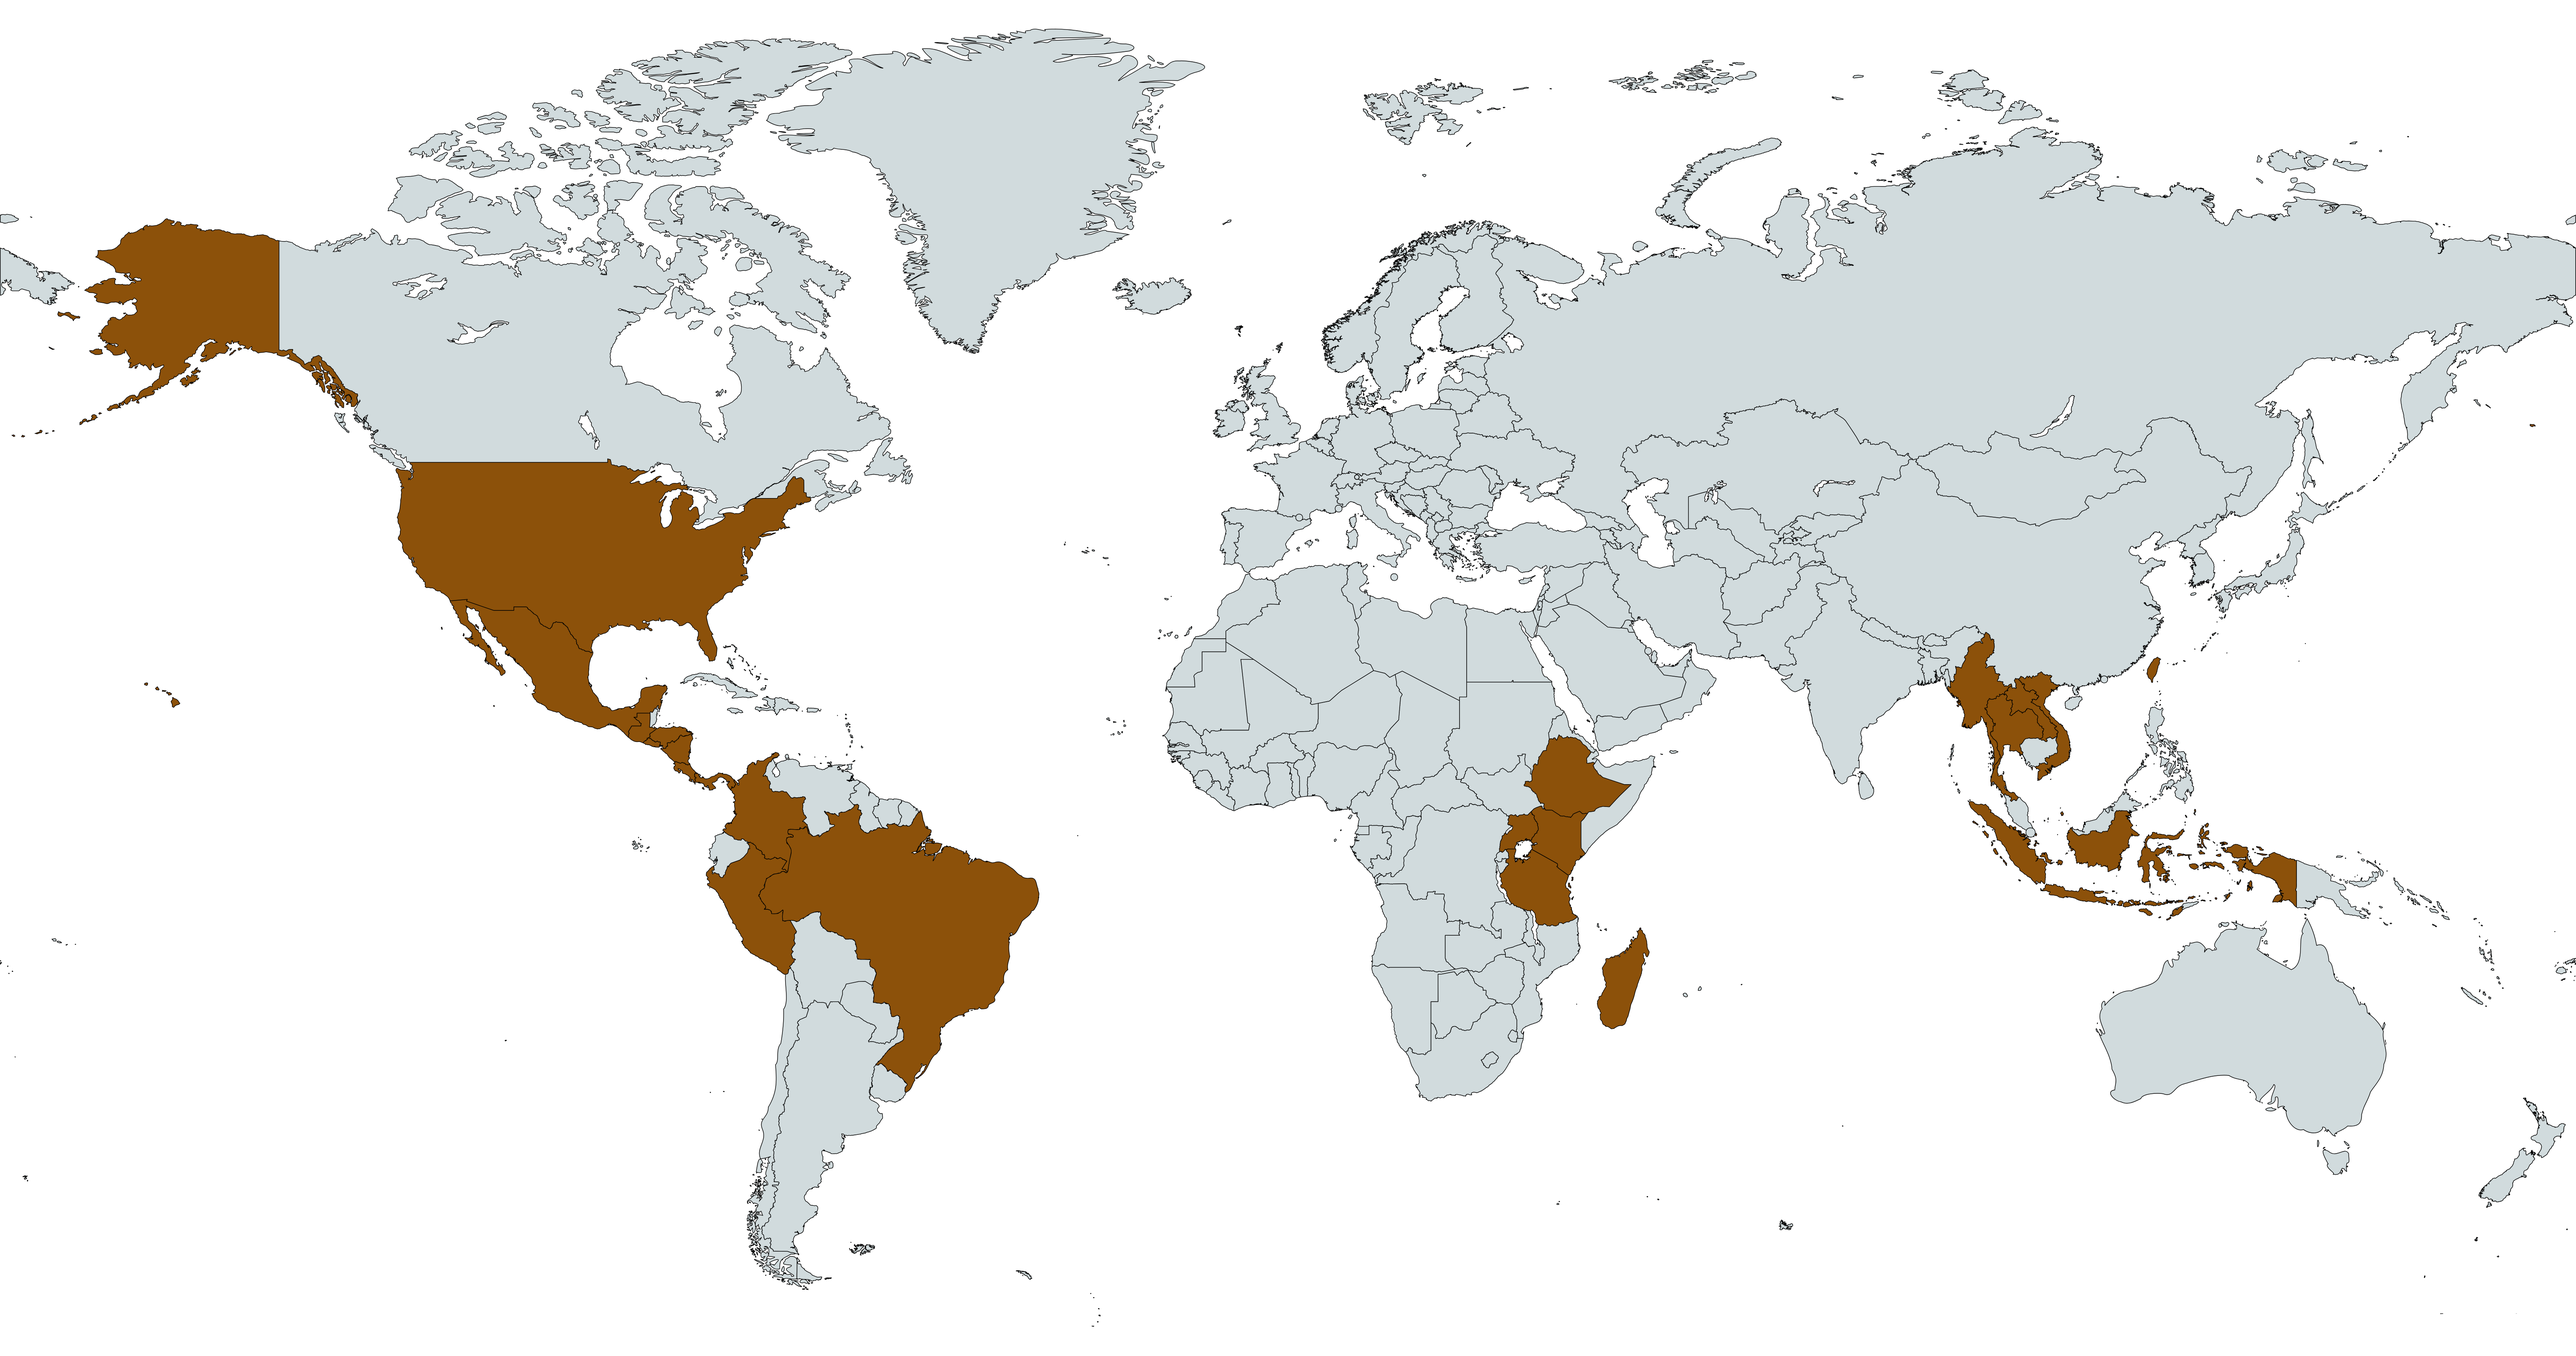
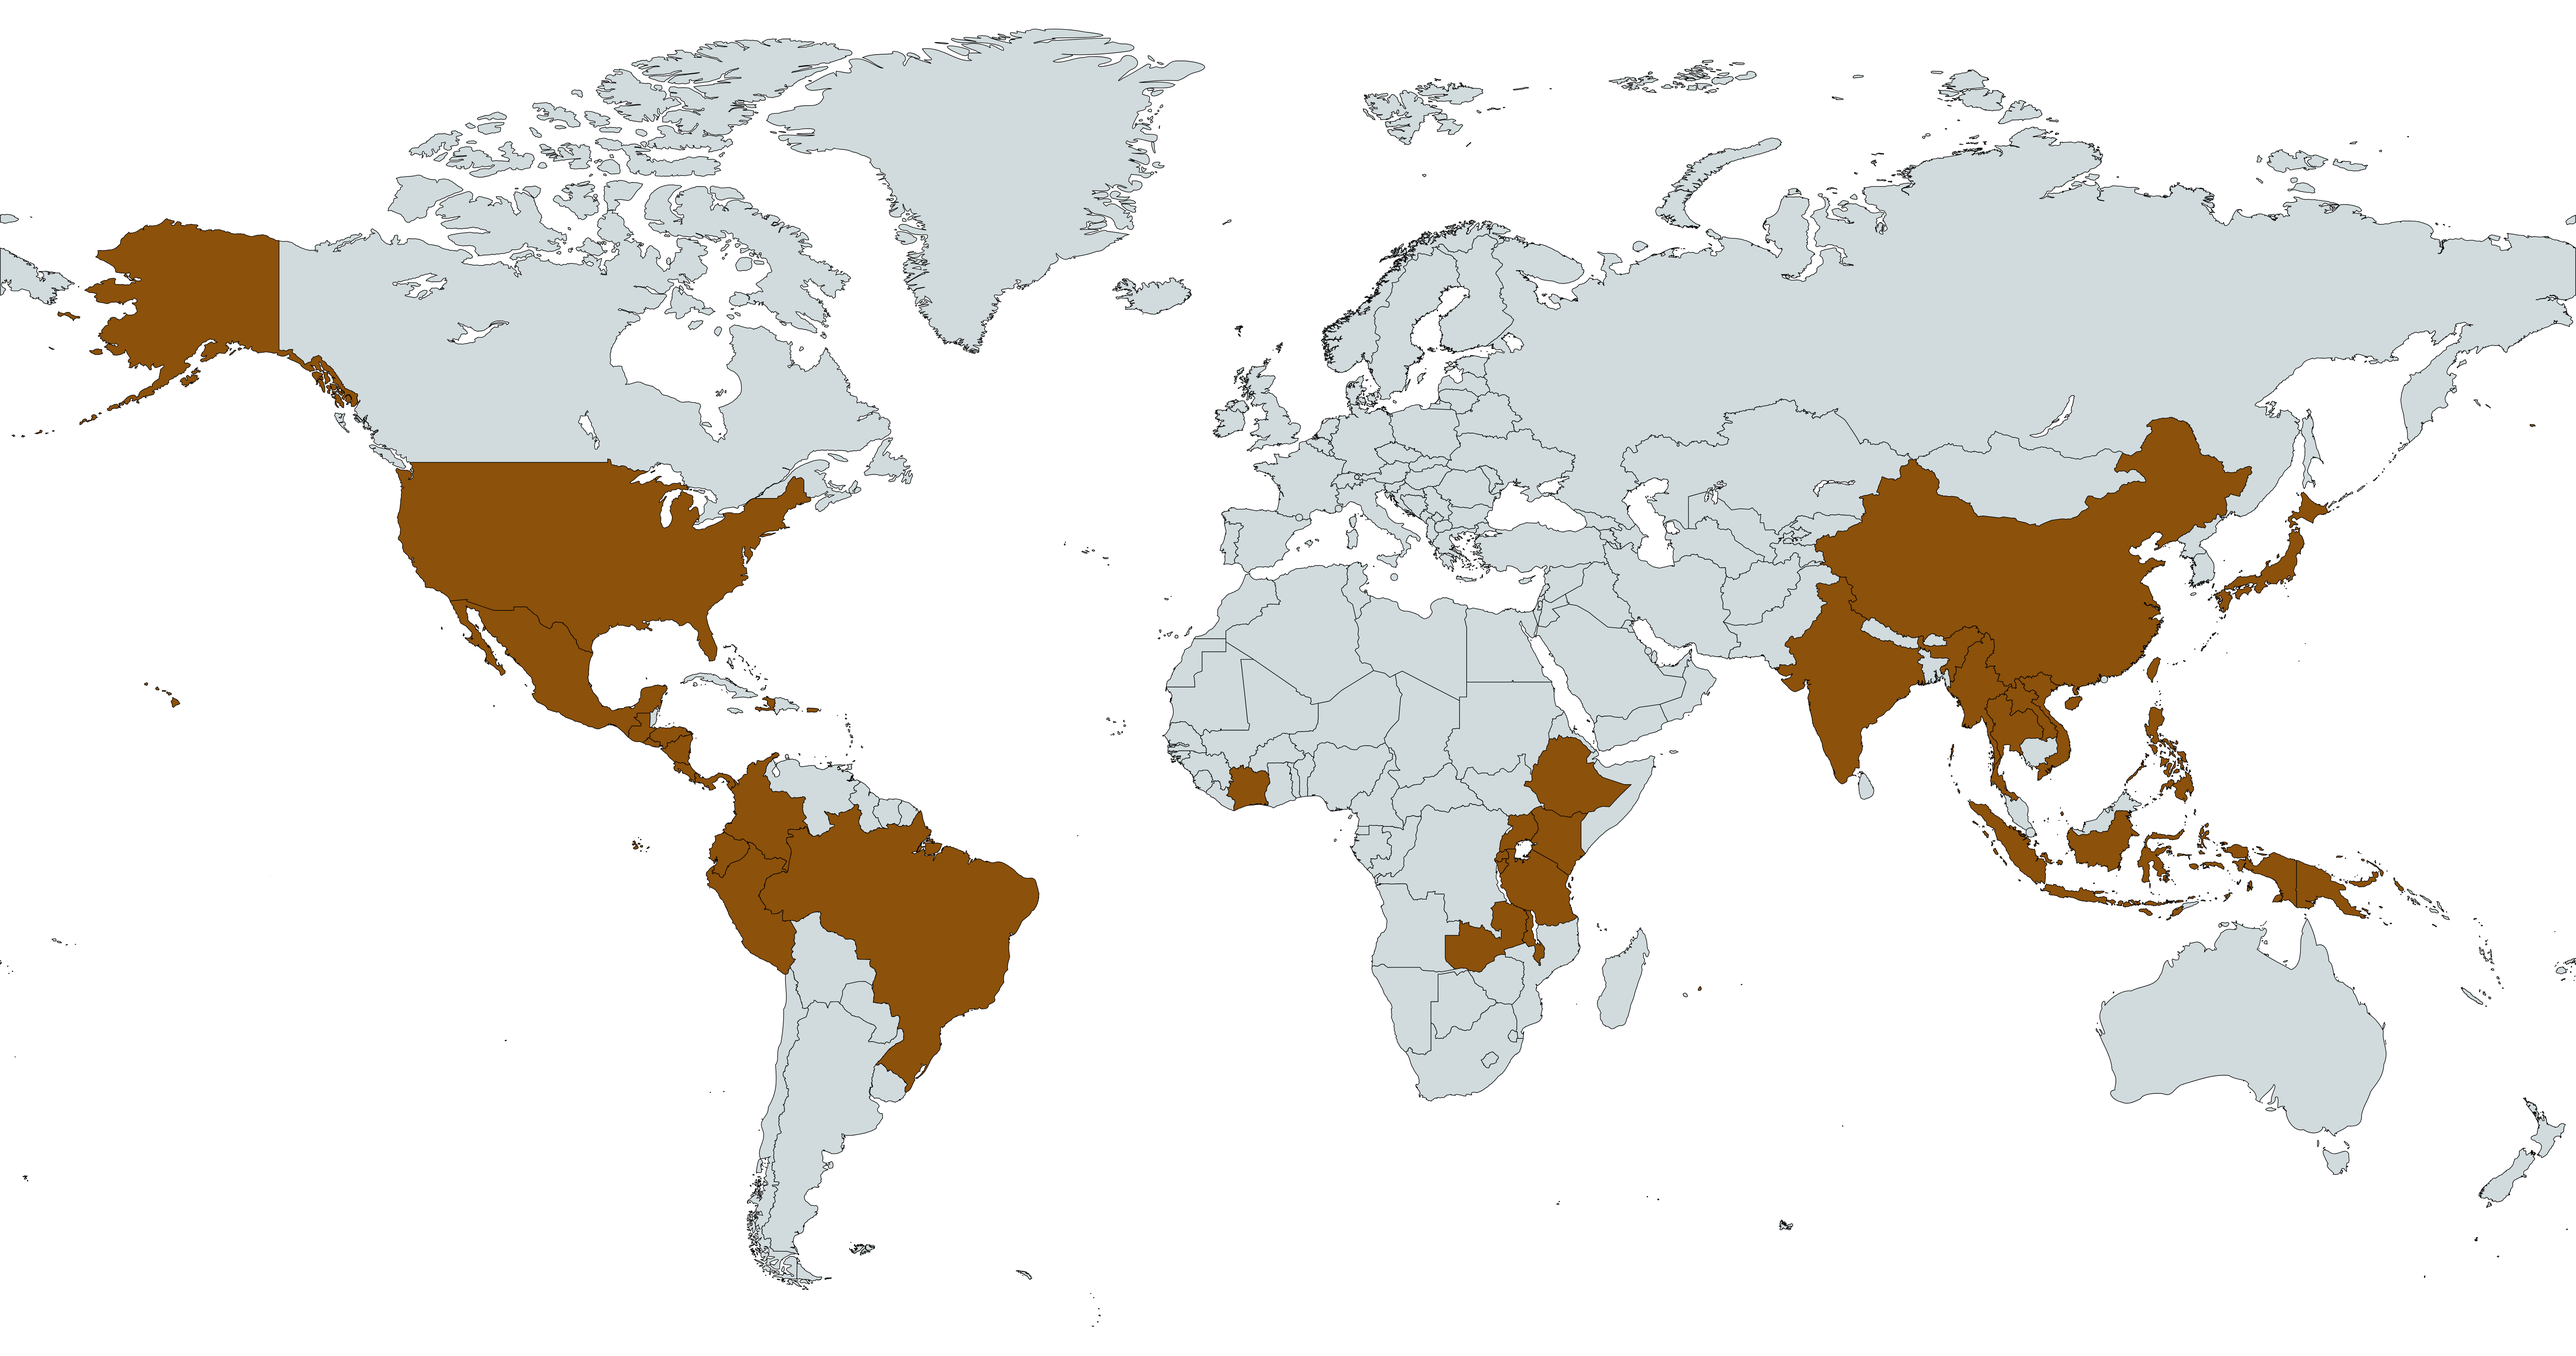
fixed data

diff --git a/src/components/CountriesComponent.jsx b/src/components/CountriesComponent.jsx
@@ -10,74 +10,40 @@ function CountriesComponent() {
       <div id="countriesRepresentedContainer">
         <h2>Countries Represented</h2>
         <ul>
-          <li>
-            <a href="https://en.wikipedia.org/wiki/Colombia">Colombia</a>
-          </li>
-          <li>
-            <a href="https://en.wikipedia.org/wiki/Taiwan">Taiwan</a>
-          </li>
-          <li>
-            <a href="https://en.wikipedia.org/wiki/Laos">Laos</a>
-          </li>
-          <li>
-            <a href="https://en.wikipedia.org/wiki/Costa_Rica">Costa Rica</a>
-          </li>
-          <li>
-            <a href="https://en.wikipedia.org/wiki/Guatemala">Guatemala</a>
-          </li>
-          <li>
-            <a href="https://en.wikipedia.org/wiki/Tanzania">Tanzania</a>
-          </li>
-          <li>
-            <a href="https://en.wikipedia.org/wiki/Ethiopia">Ethiopia</a>
-          </li>
-          <li>
-            <a href="https://en.wikipedia.org/wiki/Thailand">Thailand</a>
-          </li>
-          <li>
-            <a href="https://en.wikipedia.org/wiki/Brazil">Brazil</a>
-          </li>
-          <li>
-            <a href="https://en.wikipedia.org/wiki/United_States">
-              United States
-            </a>
-          </li>
-          <li>
-            <a href="https://en.wikipedia.org/wiki/Kenya">Kenya</a>
-          </li>
-          <li>
-            <a href="https://en.wikipedia.org/wiki/Uganda">Uganda</a>
-          </li>
-          <li>
-            <a href="https://en.wikipedia.org/wiki/Indonesia">Indonesia</a>
-          </li>
-          <li>
-            <a href="https://en.wikipedia.org/wiki/Peru">Peru</a>
-          </li>
-          <li>
-            <a href="https://en.wikipedia.org/wiki/Panama">Panama</a>
-          </li>
-          <li>
-            <a href="https://en.wikipedia.org/wiki/Nicaragua">Nicaragua</a>
-          </li>
-          <li>
-            <a href="https://en.wikipedia.org/wiki/Vietnam">Vietnam</a>
-          </li>
-          <li>
-            <a href="https://en.wikipedia.org/wiki/Honduras">Honduras</a>
-          </li>
-          <li>
-            <a href="https://en.wikipedia.org/wiki/El_Salvador">El Salvador</a>
-          </li>
-          <li>
-            <a href="https://en.wikipedia.org/wiki/Madagascar">Madagascar</a>
-          </li>
-          <li>
-            <a href="https://en.wikipedia.org/wiki/Mexico">Mexico</a>
-          </li>
-          <li>
-            <a href="https://en.wikipedia.org/wiki/Myanmar">Myanmar</a>
-          </li>
+          <li><a href="https://en.wikipedia.org/wiki/Brazil">Brazil</a></li>
+          <li><a href="https://en.wikipedia.org/wiki/Burundi">Burundi</a></li>
+          <li><a href="https://en.wikipedia.org/wiki/China">China</a></li>
+          <li><a href="https://en.wikipedia.org/wiki/Colombia">Colombia</a></li>
+          <li><a href="https://en.wikipedia.org/wiki/Costa_Rica">Costa Rica</a></li>
+          <li><a href="https://en.wikipedia.org/wiki/Ecuador">Ecuador</a></li>
+          <li><a href="https://en.wikipedia.org/wiki/El_Salvador">El Salvador</a></li>
+          <li><a href="https://en.wikipedia.org/wiki/Ethiopia">Ethiopia</a></li>
+          <li><a href="https://en.wikipedia.org/wiki/Guatemala">Guatemala</a></li>
+          <li><a href="https://en.wikipedia.org/wiki/Haiti">Haiti</a></li>
+          <li><a href="https://en.wikipedia.org/wiki/Honduras">Honduras</a></li>
+          <li><a href="https://en.wikipedia.org/wiki/India">India</a></li>
+          <li><a href="https://en.wikipedia.org/wiki/Indonesia">Indonesia</a></li>
+          <li><a href="https://en.wikipedia.org/wiki/Ivory_Coast">Ivory Coast</a></li>
+          <li><a href="https://en.wikipedia.org/wiki/Japan">Japan</a></li>
+          <li><a href="https://en.wikipedia.org/wiki/Kenya">Kenya</a></li>
+          <li><a href="https://en.wikipedia.org/wiki/Laos">Laos</a></li>
+          <li><a href="https://en.wikipedia.org/wiki/Malawa">Malawi</a></li>
+          <li><a href="https://en.wikipedia.org/wiki/Mexico">Mexico</a></li>
+          <li><a href="https://en.wikipedia.org/wiki/Mauritius">Mauritius</a></li>
+          <li><a href="https://en.wikipedia.org/wiki/Myanmar">Myanmar</a></li>
+          <li><a href="https://en.wikipedia.org/wiki/Nicaragua">Nicaragua</a></li>
+          <li><a href="https://en.wikipedia.org/wiki/Panama">Panama</a></li>
+          <li><a href="https://en.wikipedia.org/wiki/Papua_New_Guinea">Papua New Guinea</a></li>
+          <li><a href="https://en.wikipedia.org/wiki/Peru">Peru</a></li>
+          <li><a href="https://en.wikipedia.org/wiki/Philippines">Philippines</a></li>
+          <li><a href="https://en.wikipedia.org/wiki/Rwanda">Rwanda</a></li>
+          <li><a href="https://en.wikipedia.org/wiki/Taiwan">Taiwan</a></li>
+          <li><a href="https://en.wikipedia.org/wiki/Tanzania">Tanzania</a></li>
+          <li><a href="https://en.wikipedia.org/wiki/Thailand">Thailand</a></li>
+          <li><a href="https://en.wikipedia.org/wiki/United_States">United States</a></li>
+          <li><a href="https://en.wikipedia.org/wiki/Uganda">Uganda</a></li>
+          <li><a href="https://en.wikipedia.org/wiki/Vietnam">Vietnam</a></li>
+          <li><a href="https://en.wikipedia.org/wiki/Zambia">Zambia</a></li>
         </ul>
       </div>
     </div>

diff --git a/src/App.css b/src/App.css
@@ -175,14 +175,14 @@ body {
     display: flex;
     flex-direction: column;
     justify-content: flex-start;
-    width: auto;
+    width: 280px;
     height: auto;
     background-color: #ffffff;
     z-index: 2;
     grid-column: 1 / 2;
     grid-row: 2;
-    margin-top: -380px;  
-    margin-right: 1310px;
+    margin-top: -500px;  
+    margin-right: 1280px;
 }
 
 #countriesRepresentedContainer h2 {
@@ -203,8 +203,24 @@ body {
     text-decoration: none;
 }
 /* QUALITIES */
-.qualitiesContainer {
+#qualities {
+    display: grid;
+    grid-template-columns: 1fr;
+    grid-template-rows: 1fr 1fr;
+    justify-items: center;
+    align-items: center;
     width: 100vw;
     height: 100vh;
-    background-color: #e6cbad
+    background-color: #d4bb9f;
+}
+
+.qualitiesContainer {
+    display: flex;
+    flex-direction: column;
+    align-items: center;
+    width: 98vw;
+    height: 95vh;
+    background-color: #ffffff;
+    z-index: 1;
+    margin-top: 20px;
 }

diff --git a/src/App.jsx b/src/App.jsx
@@ -9,12 +9,10 @@ function App() {
   const [count, setCount] = useState(0);
   const [scrollY, setScrollY] = useState(0);
 
-  // Function to update scroll position
   const handleScroll = () => {
-    setScrollY(window.scrollY);  // Capture the scroll position
+    setScrollY(window.scrollY);
   };
 
-  // Add event listener on component mount and cleanup on unmount
   useEffect(() => {
     window.addEventListener("scroll", handleScroll);
     return () => {
@@ -22,9 +20,8 @@ function App() {
     };
   }, []);
 
-  // Parallax effect: Adjust text position based on scrollY
   const parallaxTextStyle = {
-    transform: `translate(-50%, ${-50 + scrollY * -0.7}%)`,  // Adjust the multiplier to control movement
+    transform: `translate(-50%, ${-50 + scrollY * -0.7}%)`,
   };
 
   function filterTask() {}
